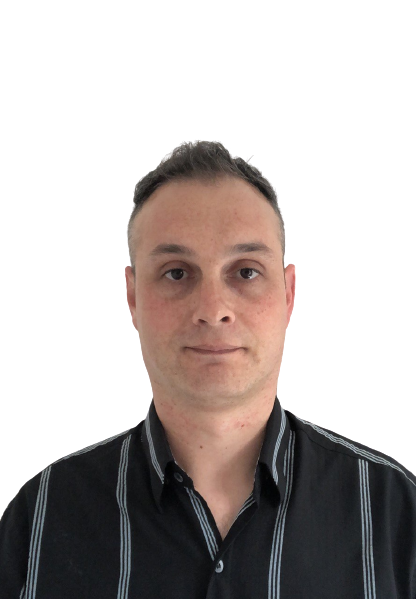
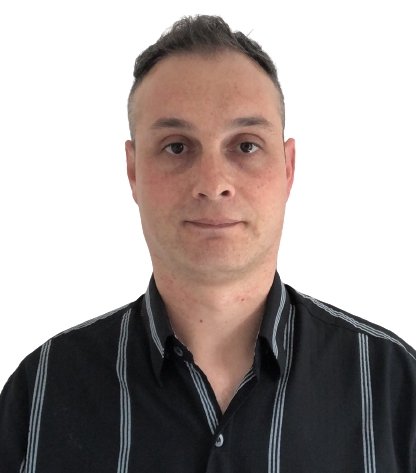
added new profile images to trending section

Changed region(s): [[0.0, 0.0296, 1.0, 0.9767], [0.2812, 0.9471, 0.3125, 0.9767], [0.0312, 0.9767, 0.0625, 1.0]]

diff --git a/index.html b/index.html
@@ -348,7 +348,7 @@
         <section class="trending">
           <a href="https://www.instagram.com/fabioauroradev/" class="trending_posts" target="_blank">
             <div class="profile_img-ctn">
-              <img src="/assets/images/portolio-removebg-preview.png" alt="">
+              <img src="assets/images/portolio-removebg-preview.png" alt="Portrait photo of Fabio Aurora">
             </div>
             <div class="user_info-ctn">
               <p class="bold_para">@fabioauroradev</p>
@@ -358,31 +358,31 @@
 
           <div class="trending_posts">
             <div class="profile_img-ctn">
-              <img class="profile_img" src="/assets/images/profile1.jpg" alt="">
+              <img class="profile_img" src="assets/images/Pedro-Mueller.jpg" alt="Pedro Muller Youtube profile image">
             </div>
             <div class="user_info-ctn">
-              <p class="bold_para">@fabioauroradev</p>
-              <p class="thin_para">Documenting my journey into Frontend</p>
+              <p class="bold_para">@pedromueller8160</p>
+              <p class="thin_para">Great playlist to work on a project.</p>
             </div>
           </div>
 
           <div class="trending_posts">
             <div class="profile_img-ctn">
-              <img class="profile_img" src="/assets/images/profile2.png" alt="">
+              <img class="profile_img" src="assets/images/lofi-girl.jpg" alt="">
             </div>
             <div class="user_info-ctn">
-              <p class="bold_para">@fabioauroradev</p>
-              <p class="thin_para">Documenting my journey into Frontend</p>
+              <p class="bold_para">@LofiGirl</p>
+              <p class="thin_para">lofi hip hop radio - beats to relax/study to </p>
             </div>
           </div>
 
           <div class="trending_posts">
             <div class="profile_img-ctn">
-              <img class="profile_img" src="/assets/images/profile3.png" alt="">
+              <img class="profile_img" src="assets/images/chillhop-music.jpg" alt="">
             </div>
             <div class="user_info-ctn">
-              <p class="bold_para">@fabioauroradev</p>
-              <p class="thin_para">Documenting my journey into Frontend</p>
+              <p class="bold_para">@ChillhopMusic</p>
+              <p class="thin_para">lofi hip hop radio - beats to study/relax to 🐾</p>
             </div>
           </div>
         </section>

diff --git a/assets/css/style.css b/assets/css/style.css
@@ -49,7 +49,7 @@ a {
     --secondary-clr: #1e293b; /*#27293D */
     --primary-text-clr: #e2e8f0;
     --secondary-text-clr: rgb(207, 207, 207);; /* #6c757d */
-    --searchbox-legacy-border-shadow-color: hsla(0, 0%, 0%, 0);
+    --searchBox-legacy-border-shadow-color: hsla(0, 0%, 0%, 0);
     --rainbow-gradient: linear-gradient(-90deg,#adfbda 0,#35c3ff 30%,#fda399 50%,#76d880 70%,#ebf38b 90%,#adfbda 100%);
     --card-before-bg: linear-gradient(0deg,#adfbda 0,#35c3ff 30%,#fda399 70%,#76d880 90%);
 
@@ -312,18 +312,15 @@ h1,h2 {
 }
 
 .profile_img-ctn {
-    width: 40px;
-    height: 40px;
+    width: 37px;
+    height: 37px;
     border-radius: 50%;
     overflow: hidden;
     position: relative;
     background-color: #fff;
 }
 
-.profile_img-ctn > img {
-    position: absolute;
-    top: -10px;
-}
+
 
 .profile_img-ctn > .profile_img {
     top: 3px;
@@ -414,7 +411,7 @@ h1,h2 {
     display: flex;
     flex-direction: column;
     gap: var(--gap-1-5);
-    padding: var(--padding-ctn);
+    padding: 1.5rem .5rem;
     background-color: var(--secondary-clr);
     border-radius: .4rem;
 }
@@ -428,13 +425,13 @@ h1,h2 {
     font-weight: var(--font-medium);
     margin-bottom: .2rem;
     letter-spacing: 1px;
+    font-size: .8rem;
 }
 
 .thin_para {
     font-weight: var(--font-light);
-    font-size: .8rem;
+    font-size: .63rem;
     color: var(--secondary-text-clr);
-    word-spacing: 2px;
 }
 
 /****************\
